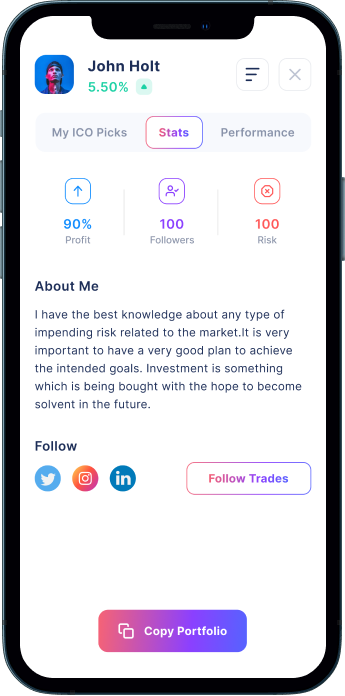
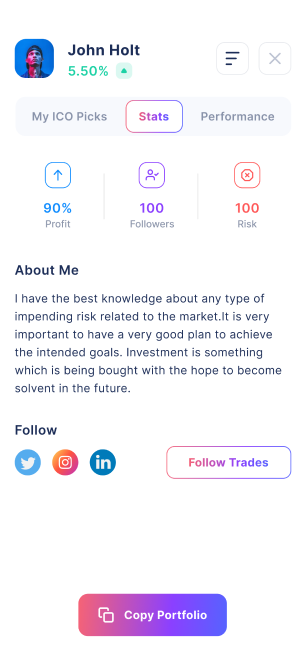
finished slider section

diff --git a/src/components/SliderSection/SliderBlock.js b/src/components/SliderSection/SliderBlock.js
@@ -11,9 +11,9 @@ import "pure-react-carousel/dist/react-carousel.es.css";
 import SliderImage1 from "../../assets/images/slider1.png";
 import SliderImage2 from "../../assets/images/slider2.png";
 import SliderImage3 from "../../assets/images/slider3.png";
-// import SliderImage4 from "../../assets/images/slider4.png";
 import SliderItem from "./components/SliderItem";
 import SliderDot from "./components/SliderDot";
+import MobileHeading from "./components/MobileHeading";
 import "./slider-section.scss";
 
 const SliderBlock = () => {
@@ -28,42 +28,49 @@ const SliderBlock = () => {
       infinite
     >
       <Slider>
-        <Slide index={0} classNameHidden="slide-hidden">
+        <Slide index={0} classNameHidden="mobile-hidden">
           <SliderItem
             title="Your followers can copy your portfolio in 3 steps"
             image={SliderImage1}
           />
+          {window.innerWidth < 769 ? (
+            <MobileHeading number={"1."} dotName="Access Signalz" />
+          ) : null}
         </Slide>
-        <Slide index={1} classNameHidden="slide-hidden">
+        <Slide index={1} classNameHidden="mobile-hidden">
           <SliderItem
             title="Share trades in 4 easy steps"
             image={SliderImage2}
           />
+          {window.innerWidth < 769 ? (
+            <MobileHeading number={"2."} dotName="Connect Wallet" />
+          ) : null}
         </Slide>
-        <Slide index={2} classNameHidden="slide-hidden">
+        <Slide index={2} classNameHidden="mobile-hidden">
           <SliderItem
             title="Share trades in 4 easy steps"
             image={SliderImage3}
           />
+          {window.innerWidth < 769 ? (
+            <MobileHeading number={"3."} dotName="Copy Portfolio" />
+          ) : null}
         </Slide>
-        {/* <Slide index={3} classNameHidden="slide-hidden">
-          <SliderItem
-            title="Share trades in 4 easy steps"
-            image={SliderImage4}
-          />
-        </Slide> */}
       </Slider>
-      <DotGroup className="dot-group">
-        <Dot slide={0}>
-          <SliderDot number={1} dotName="Access Signalz" />
-        </Dot>
-        <Dot slide={1}>
-          <SliderDot number={2} dotName="Connect Wallet" />
-        </Dot>
-        <Dot slide={2}>
-          <SliderDot number={3} dotName="Copy Portfolio" />
-        </Dot>
-      </DotGroup>
+      {window.innerWidth > 768 ? (
+        <DotGroup className="dot-group">
+          <Dot slide={0}>
+            <SliderDot number={1} dotName="Access Signalz" />
+          </Dot>
+          <Dot slide={1}>
+            <SliderDot number={2} dotName="Connect Wallet" />
+          </Dot>
+          <Dot slide={2}>
+            <SliderDot number={3} dotName="Copy Portfolio" />
+          </Dot>
+        </DotGroup>
+      ) : (
+        <DotGroup className="dot-group" />
+      )}
     </CarouselProvider>
   );
 };

diff --git a/src/components/SliderSection/slider-section.scss b/src/components/SliderSection/slider-section.scss
@@ -12,14 +12,9 @@
 .slider-wrapper {
   position: relative;
 }
-
 .slider-item {
   padding: 100px 0;
   text-align: center;
-}
-.slider-image {
-  float: right;
-  padding-right: 10%;
 }
 .dot-group {
   position: absolute;
@@ -51,6 +46,12 @@
   text-align: start;
   margin-left: 35px;
 }
+.slider .carousel {
+  width: 360px;
+  margin-left: 60%;
+  background: url("../../assets/backgrounds/phone.png") center no-repeat;
+  overflow: hidden;
+}
 .slider .carousel__dot--selected {
   h5 {
     color: #1c2d57;
@@ -74,4 +75,87 @@
   line-height: 32px;
   color: rgba(28, 45, 87, 0.5);
   border-radius: 14px;
+}
+@media (max-width: 1000px) {
+  .slider .carousel {
+    margin-left: 57%;
+  }
+}
+@media (max-width: 900px) {
+  .slider .carousel {
+    margin-left: 52%;
+  }
+  .slider button {
+    width: 320px;
+  }
+}
+@media (max-width: 769px) {
+  .slider .carousel {
+    margin: 0 2%;
+    width: auto;
+  }
+  .dot-group {
+    left: 50%;
+    top: 100%;
+    transform: translate(-50%, 0%);
+    flex-direction: row;
+    background: linear-gradient(
+      271.22deg,
+      rgba(68, 110, 255, 0.1) -12.45%,
+      rgba(139, 64, 255, 0.1) 37.46%,
+      rgba(255, 102, 105, 0.1) 105.3%
+    );
+    border-radius: 20px;
+    padding: 5px;
+  }
+  .slider button {
+    width: 18px;
+    height: 18px;
+    border-radius: 9px;
+    margin: 0 4px;
+    background: linear-gradient(
+      271.22deg,
+      rgba(68, 110, 255, 0.2) -12.45%,
+      rgba(139, 64, 255, 0.2) 37.46%,
+      rgba(255, 102, 105, 0.2) 105.3%
+    );
+  }
+  .slider .carousel__dot--selected {
+    background: linear-gradient(
+      271.22deg,
+      #446eff -12.45%,
+      #8b40ff 37.46%,
+      #ff6669 105.3%
+    );
+  }
+  .mobile-hidden {
+    animation-name: slide-hidden;
+    animation-duration: 0.7s;
+    visibility: hidden;
+    transition: visibility 0.7s linear;
+  }
+  .mobile-heading {
+    position: absolute;
+    bottom: 3%;
+    width: 100vw;
+    text-align: center;
+    font-weight: bold;
+    font-size: 20px;
+    line-height: 32px;
+    text-align: center;
+    color: #1c2d57;
+  }
+  .mobile-heading span {
+    margin: 0 3px;
+  }
+}
+@media (max-width: 400px) {
+  .slider .carousel {
+    width: 94vw;
+    margin: 0 3vw;
+    background-size: contain;
+  }
+  .slider-image img {
+    width: 88%;
+  }
 }

diff --git a/src/components/SliderSection/components/MobileHeading.js b/src/components/SliderSection/components/MobileHeading.js
@@ -1,0 +1,12 @@
+import "../slider-section.scss";
+
+const MobileHeading = (props) => {
+  return (
+    <div className=" flex-center mobile-heading">
+      <span>{props.number}</span>
+      <span>{props.dotName}</span>
+    </div>
+  );
+};
+
+export default MobileHeading;
